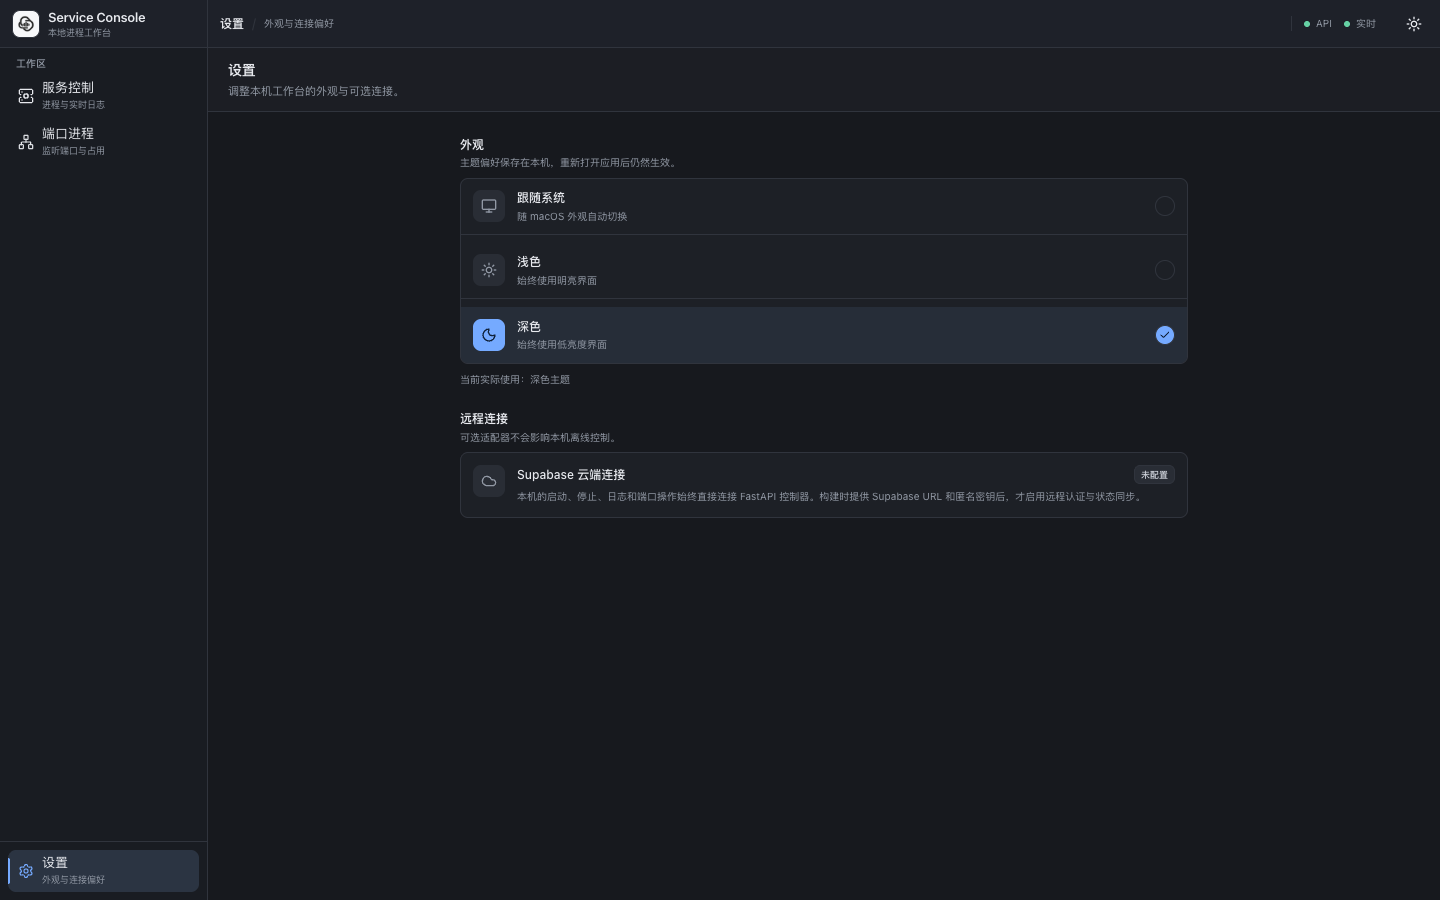
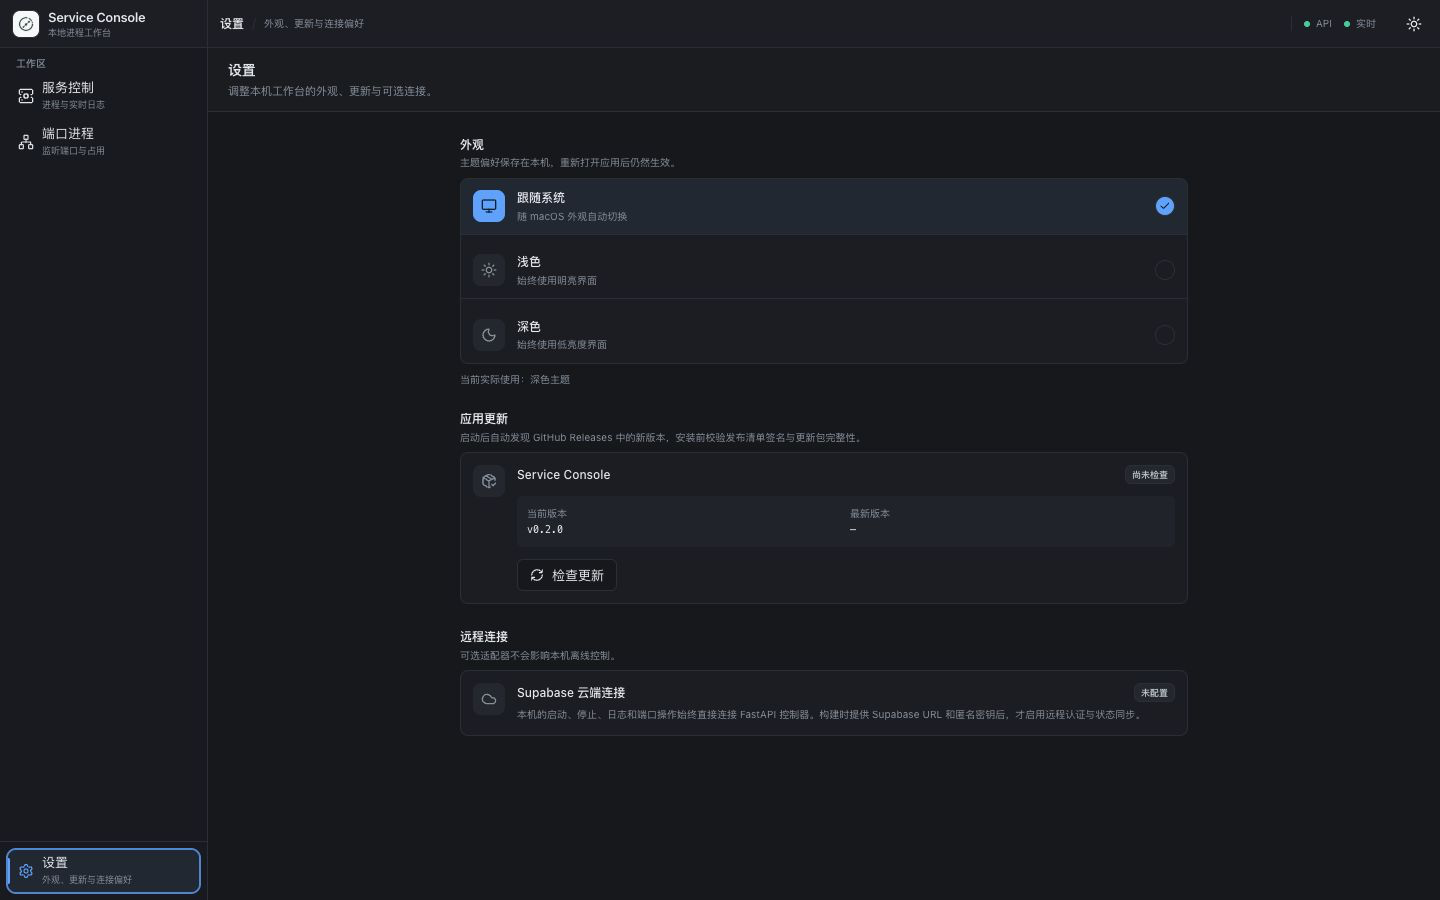
docs(readme): 补充自动更新说明与截图
说明签名验证、平台支持、安装重启和 Release 发布流程，并更新带新 Logo 的设置页截图。

diff --git a/README.md b/README.md
@@ -42,6 +42,8 @@ requiring Docker or another container runtime.
 - Capture stdout and stderr in independent persistent logs and bounded live buffers.
 - Render ANSI output with xterm.js search, selection, links, wrapping, and scrollback.
 - Inspect listening ports and safely terminate their owning processes with PID/port verification.
+- Discover new desktop releases automatically, verify an Ed25519-signed manifest and package SHA-256,
+  then install and restart only after explicit confirmation.
 - Discover the current user's running processes, including workers without ports, and prefill service
   definitions from restored `uv`/`pnpm` commands and working directories.
 - Use the same controller through the desktop app, Web UI, CLI, TUI, HTTP, or WebSocket.
@@ -77,11 +79,12 @@ terminate it after Service Console verifies both the PID and expected port.
 ### Persist appearance preferences
 
 <p align="center">
-  <img src="docs/assets/screenshots/settings.png" width="100%" alt="Service Console theme and connection settings">
+  <img src="docs/assets/screenshots/settings.png" width="100%" alt="Service Console theme, signed updates, and connection settings">
 </p>
 
-Follow the operating system or select a persistent light or dark theme. Optional Supabase connection
-settings remain separate from the local FastAPI controller and are not required for local operation.
+Follow the operating system or select a persistent light or dark theme. The same page shows the
+installed version, checks for signed updates, and guides download and restart. Optional Supabase
+connection settings remain separate from the local FastAPI controller and are not required locally.
 
 ### Appearance
 
@@ -203,6 +206,23 @@ service-console \
 
 Never expose an unauthenticated controller to an untrusted network.
 
+## Desktop updates
+
+The packaged desktop app reads its local version immediately and checks for a newer stable GitHub
+Release shortly after launch. A release is trusted only when its `latest-update.json` payload passes
+Ed25519 verification with the public key embedded in the app. The selected platform package must
+also match the signed filename, byte size, and SHA-256 digest.
+
+Open **Settings → Application update** to check manually, download an available package, and choose
+**Install and restart**. Installation is never silent: confirmation warns that closing Service
+Console gracefully stops its managed services. After the updated app opens, services with
+`auto_start` enabled start again.
+
+Automatic replacement is available only in frozen macOS arm64 and Windows x64 Release builds and
+requires a writable install directory. Source runs, browser-only controllers, and unsupported
+architectures still discover a release but direct the user to its download page. The first version
+that contains this updater must be installed manually; subsequent releases can update in-app.
+
 ## Build the macOS application
 
 ```bash
@@ -250,13 +270,18 @@ until the project is configured with a trusted code-signing certificate.
 ## Publish release packages
 
 The `Release` GitHub Actions workflow builds an Apple Silicon macOS ZIP and a Windows x64 ZIP. A tag
-matching the version in `pyproject.toml` publishes both packages and `SHA256SUMS.txt` to GitHub
-Releases:
+matching the version in `pyproject.toml` publishes both packages, `SHA256SUMS.txt`, and the signed
+`latest-update.json` / `latest-update.json.sig` pair to GitHub Releases:
 
 ```bash
-git tag v0.1.0
-git push origin v0.1.0
+git tag vX.Y.Z
+git push origin vX.Y.Z
 ```
+
+Signing uses the protected `SERVICE_CONSOLE_UPDATE_PRIVATE_KEY_B64` Actions secret; only the matching
+public key is committed. Publishing is staged through a recoverable draft, explicitly marks the
+release as Latest, and refuses to overwrite an already-published release. Enable GitHub Immutable
+Releases in the repository settings when platform-enforced tag and asset immutability is required.
 
 The workflow can also be started manually to build downloadable Actions artifacts without creating
 a GitHub Release.
